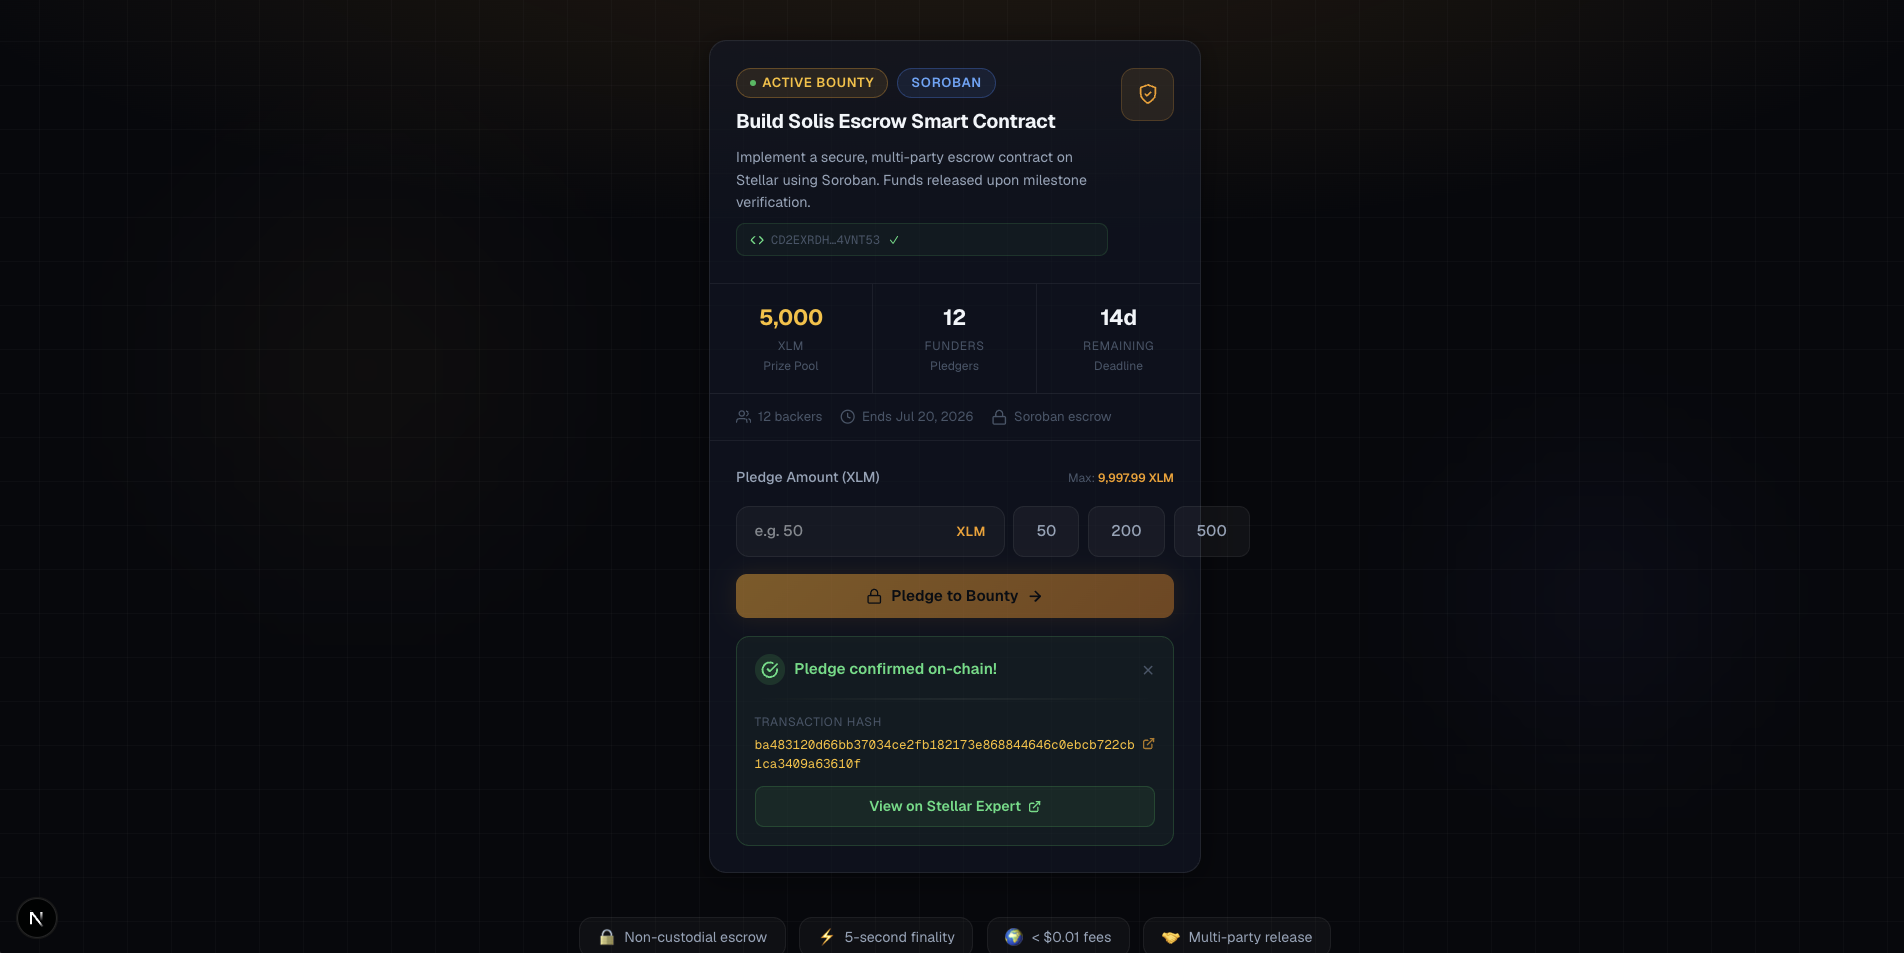
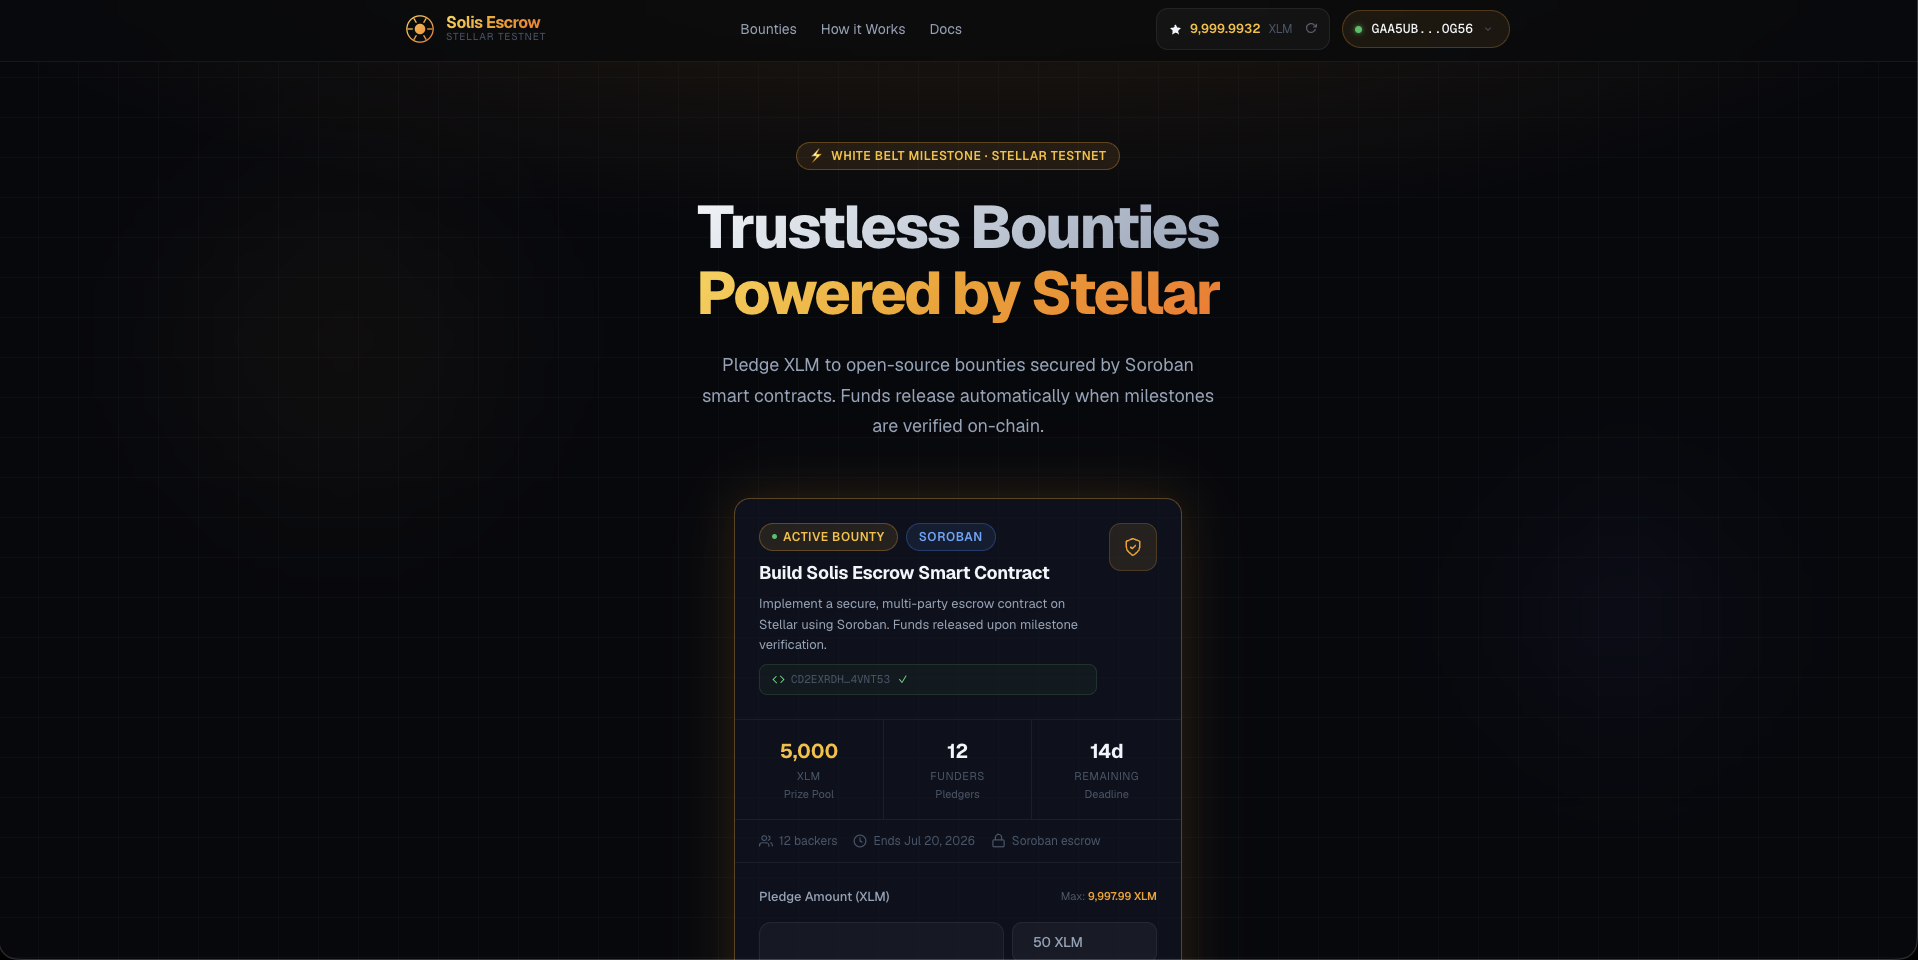
docs: finalize Level 3 README and clean repository

diff --git a/README.md b/README.md
@@ -1,191 +1,94 @@
 # Solis Escrow
 
-**A decentralized crowdfunding and bounty platform built on the Stellar Network using Soroban smart contracts.**
+A decentralized crowdfunding and bounty escrow platform built on the **Stellar Network** using **Soroban Smart Contracts**.
 
-Solis Escrow lets developers post bounties backed by XLM held in a trustless Soroban escrow vault. Backers pledge directly to the smart contract; funds are released only when milestones are verified. Built during the White Belt → Yellow Belt milestones of the Solis developer program.
-
----
-
-## Tech Stack
-
-| Layer | Technology |
-|---|---|
-| Frontend | Next.js 16 (App Router, Turbopack) · TypeScript · Tailwind CSS |
-| Wallet | `@creit.tech/stellar-wallets-kit` v2.x · Freighter Browser Extension |
-| Blockchain | Stellar Testnet · Soroban Smart Contracts (Rust, `soroban-sdk` v22) |
-| RPC | Horizon Testnet · Soroban RPC Testnet |
-| Design | Dark glassmorphism · Amber brand · CSS custom properties |
+Solis Escrow allows open-source projects, backers, and developers to create trustless bounties backed by XLM. Funds pledged by backers are safely held in a Soroban escrow vault smart contract. These funds are only claimable by the admin upon successful completion of the milestones, or fully refundable to the backers if the campaign fails to reach its goal before the deadline.
 
 ---
 
-## Features
+## 🔗 Important Links
 
-- 🔐 **Freighter wallet integration** — connect/disconnect with session persistence across page refreshes
-- 💰 **Live XLM balance** — fetched from Horizon, auto-polls every 30 seconds
-- 📜 **Soroban contract invocation** — pledge triggers an `InvokeHostFunction` operation, not a native transfer
-- 🛡️ **4-tier error pipeline** — contract errors caught at simulation (before Freighter opens), send, poll, and fallback stages
-- 🟢 **Contract ID validation** — UI validates the strkey format (`^C[A-Z2-7]{55}$`) and shows distinct badge states
-- ⚡ **4-step tx progress bar** — building → signing → submitting → confirming
+* **Live Demo URL:** [https://solis-escrow.vercel.app/](https://solis-escrow.vercel.app/)
+* **Demo Video Walkthrough:** [Google Drive Demo Video](https://drive.google.com/file/d/1LQuwgZo4NE4HXsH8mE1zwqwE3S5eLAAo/view?usp=sharing)
 
 ---
 
-## Local Setup
+## 🏛️ Project Architecture & Overview
+
+The project is structured into two core components:
+
+### 1. Soroban Smart Contract (Rust)
+Located in `contracts/escrow_vault/`, the contract governs the entire vault lifecycle:
+- **`initialize(admin, goal, deadline)`**: Configures the escrow vault parameters. Can only be called once.
+- **`pledge(pledger, amount)`**: Allows users to back the bounty with XLM. Validates that the deadline is not passed, amount is valid ($> 0$), and the goal is not yet met.
+- **`claim(admin)`**: Allows the designated admin to withdraw the entire prize pool once the goal is met and the deadline is passed.
+- **`refund(pledger)`**: Allows backers to safely reclaim their exact XLM pledge if the goal is not met after the deadline passes. Double-refund protections are fully implemented.
+
+### 2. Premium Next.js Frontend (TypeScript & Tailwind)
+A high-fidelity client built with Next.js 16 (App Router & Turbopack) featuring:
+- **Freighter Wallet Integration**: Connect and disconnect flows with automatic session persistence across refreshes.
+- **Real-Time Data**: Active polling from Horizon nodes to maintain up-to-date XLM balances.
+- **Non-blocking Transaction UX**: Multi-stage progress tracking (Building → Signing → Submitting → Confirming) with granular on-chain error decoding.
+- **High-Fidelity Aesthetics**: Dark-mode glassmorphic styling, rich amber accents, responsive flex-wrap structures, and polished micro-interactions.
+
+---
+
+## 📜 Contract Details (Stellar Testnet)
+
+- **Deployed Contract ID:** `CD2EXRDHSQUZYJZ3MTL25K5LJJI7O7HCVZEZM7IFLUXHJISRB24VNT53`
[2 lines of base64/hex data omitted]
+
+🔗 [View Contract on Stellar Expert Explorer](https://stellar.expert/explorer/testnet/contract/CD2EXRDHSQUZYJZ3MTL25K5LJJI7O7HCVZEZM7IFLUXHJISRB24VNT53)
+
+---
+
+## 📸 Visual Evidence
+
+### Mobile Responsive UI
+![Mobile Responsive UI](mobile-ui.jpeg)
+
+### 13 Passing Unit Tests
+![13 Passing Unit Tests](passing-tests.png)
+
+### Green CI/CD Pipeline
+![Green CI/CD Pipeline](green-pipeline.png)
+
+---
+
+## 🛠️ Local Development & Setup
 
 ### Prerequisites
-
 - Node.js 18+
-- [Freighter Wallet](https://freighter.app) browser extension (set to **Testnet**)
-- Rust + `wasm32-unknown-unknown` target (for contract development only)
-- [Stellar CLI](https://github.com/stellar/stellar-cli) (`cargo install --locked stellar-cli --features opt`)
+- [Freighter Wallet](https://freighter.app) browser extension (configured to **Testnet**)
+- Rust toolchain (`wasm32v1-none` target + `rust-src` component)
+- [Stellar CLI](https://github.com/stellar/stellar-cli) (`v27.0.0`+)
 
-### 1. Clone & install
+### Setup Commands
 
-```bash
-git clone https://github.com/akxh5/solis-escrow.git
-cd solis-escrow
-npm install
-```
+1. **Clone and Install dependencies**
+   ```bash
+   git clone https://github.com/akxh5/solis-escrow.git
+   cd solis-escrow
+   npm install
+   ```
 
-### 2. Run the frontend
+2. **Run Unit Tests**
+   ```bash
+   cargo test -p escrow-vault --features soroban-sdk/testutils
+   ```
 
-```bash
-npm run dev
-# → http://localhost:3000
-```
+3. **Build the WASM Contract**
+   ```bash
+   stellar contract build
+   ```
 
-### 3. Connect wallet
-
-Open Freighter, switch network to **Testnet**, and click **Connect Wallet** on the app.  
-Fund your testnet account if needed:
-```bash
-curl "https://friendbot.stellar.org/?addr=YOUR_G_ADDRESS"
-```
-
-### 4. Pledge to a bounty
-
-Enter an XLM amount in the BountyCard → click **Pledge to Bounty** → approve in Freighter.  
-The transaction invokes the `pledge` function on the live Soroban escrow contract.
+4. **Run the Next.js Client**
+   ```bash
+   npm run dev
+   ```
+   Open [http://localhost:3000](http://localhost:3000) to view the application.
 
 ---
 
-## Smart Contract
-
-Located in `contracts/escrow_vault/src/lib.rs`.
-
-### Build
-
-```bash
-stellar contract build
-# Output: target/wasm32v1-none/release/escrow_vault.wasm
-```
-
-### Deploy (Testnet)
-
-```bash
-stellar contract deploy --wasm target/wasm32v1-none/release/escrow_vault.wasm --source deployer --network testnet
-```
-
-### Initialize
-
-```bash
-stellar contract invoke --id <CONTRACT_ID> --source deployer --network testnet -- initialize --admin <YOUR_G_ADDRESS> --goal 50000000000 --deadline <LEDGER_NUMBER>
-```
-
-> **Note:** `goal` is in stroops (1 XLM = 10,000,000 stroops). `deadline` is a Stellar ledger sequence number (~5s per ledger; 14 days ≈ 241,920 ledgers from current).
-
-### Contract Functions
-
-| Function | Description |
-|---|---|
-| `initialize(admin, goal, deadline)` | Set vault parameters |
-| `pledge(pledger, amount)` | Record a pledge (validates deadline, amount > 0, goal not met) |
-| `get_total()` | Returns running pledge total in stroops |
-| `get_goal()` | Returns the funding goal in stroops |
-| `get_deadline()` | Returns the deadline ledger sequence |
-| `get_pledge(address)` | Returns a pledger's record |
-
-### Custom Error Codes
-
-| Code | Variant | Trigger |
-|---|---|---|
-| `#1` | `DeadlinePassed` | Current ledger ≥ deadline |
-| `#2` | `InvalidPledgeAmount` | Amount ≤ 0 |
-| `#3` | `GoalAlreadyMet` | Running total ≥ goal |
-| `#4` | `NotInitialized` | `initialize` was never called |
-| `#5` | `Unauthorized` | Caller is not the admin |
-
----
-
-## Yellow Belt Deployment Artifacts
-
-### Live Contract
-
-| Field | Value |
-|---|---|
-| **Contract ID** | `CD2EXRDHSQUZYJZ3MTL25K5LJJI7O7HCVZEZM7IFLUXHJISRB24VNT53` |
-| **Network** | Stellar Testnet |
-| **Goal** | 5,000 XLM (50,000,000,000 stroops) |
-| **Deadline Ledger** | 3,718,186 |
-| **Admin** | Deployer keypair |
-
-### Successful Transactions
-
-| Transaction | Hash |
-|---|---|
[2 lines of base64/hex data omitted]
-
-🔗 [View contract on Stellar Expert](https://stellar.expert/explorer/testnet/contract/CD2EXRDHSQUZYJZ3MTL25K5LJJI7O7HCVZEZM7IFLUXHJISRB24VNT53)
-
----
-
-## Screenshots
-
-### Connected UI — Green Contract Badge
-
-![Connected UI with green Soroban contract badge](./ui.png)
-
-### Testnet Transaction — Stellar Expert
-
-![Successful Soroban pledge transaction on Stellar Expert testnet](./testnet.png)
-
----
-
-## Project Structure
-
-```
-solis-escrow/
-├── contracts/
-│   └── escrow_vault/
-│       ├── Cargo.toml          # Crate manifest
-│       └── src/lib.rs          # Soroban contract (Rust)
-├── src/
-│   ├── app/
-│   │   ├── layout.tsx          # Root layout + WalletProvider
-│   │   ├── page.tsx            # Landing page
-│   │   └── globals.css         # Design system (tokens, glassmorphism)
-│   ├── components/
-│   │   ├── BountyCard.tsx      # Pledge UI + Soroban tx flow
-│   │   └── WalletConnect.tsx   # Connect/disconnect button
-│   ├── context/
-│   │   └── WalletContext.tsx   # Wallet state + session persistence
-│   └── lib/
-│       └── stellar.ts          # Horizon + Soroban RPC utilities
-├── Cargo.toml                  # Workspace root (profile.release lives here)
-├── next.config.ts              # Turbopack aliases for Node.js stubs
-└── README.md
-```
-
----
-
-## Milestone Progress
-
-| Belt | Goal | Status |
-|---|---|---|
-| ⚪ White Belt | Freighter connect + XLM balance display | ✅ Complete |
-| 🟡 Yellow Belt | Soroban contract deployed + pledge invocation | ✅ Complete |
-| 🟠 Orange Belt | Multi-milestone escrow + release logic | 🔜 Next |
-
----
-
-*Built with ❤️ on Stellar Testnet.*
+*Built with ❤️ for the Level 3 (Orange Belt) submission.*